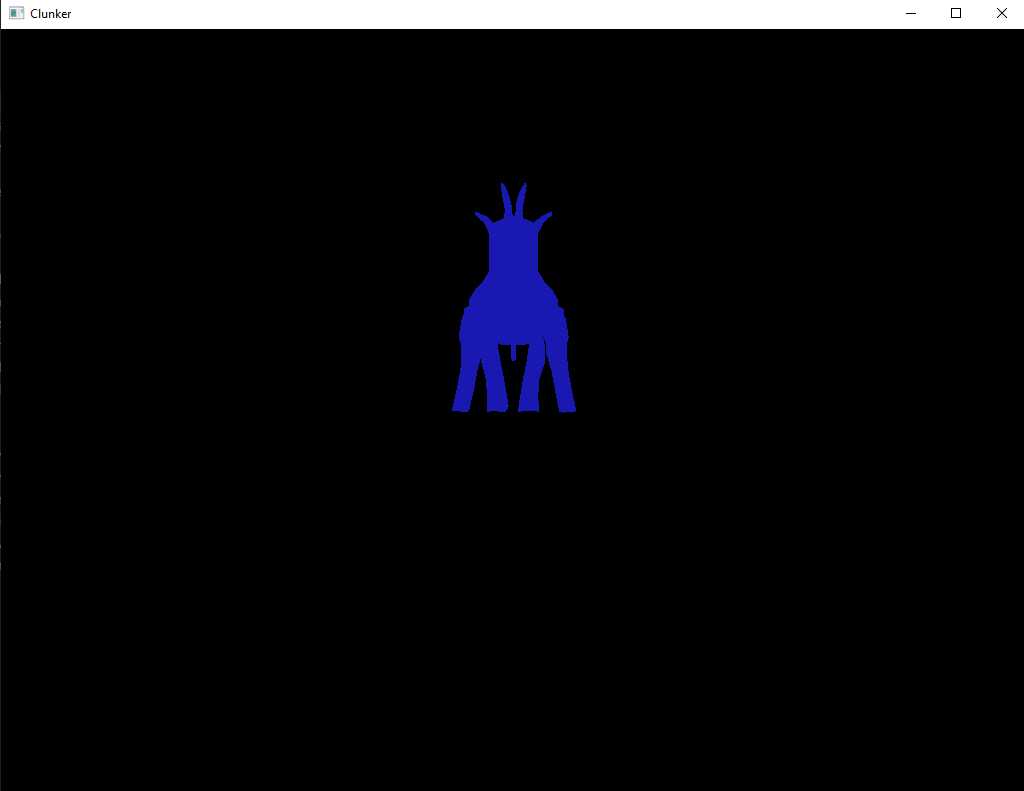
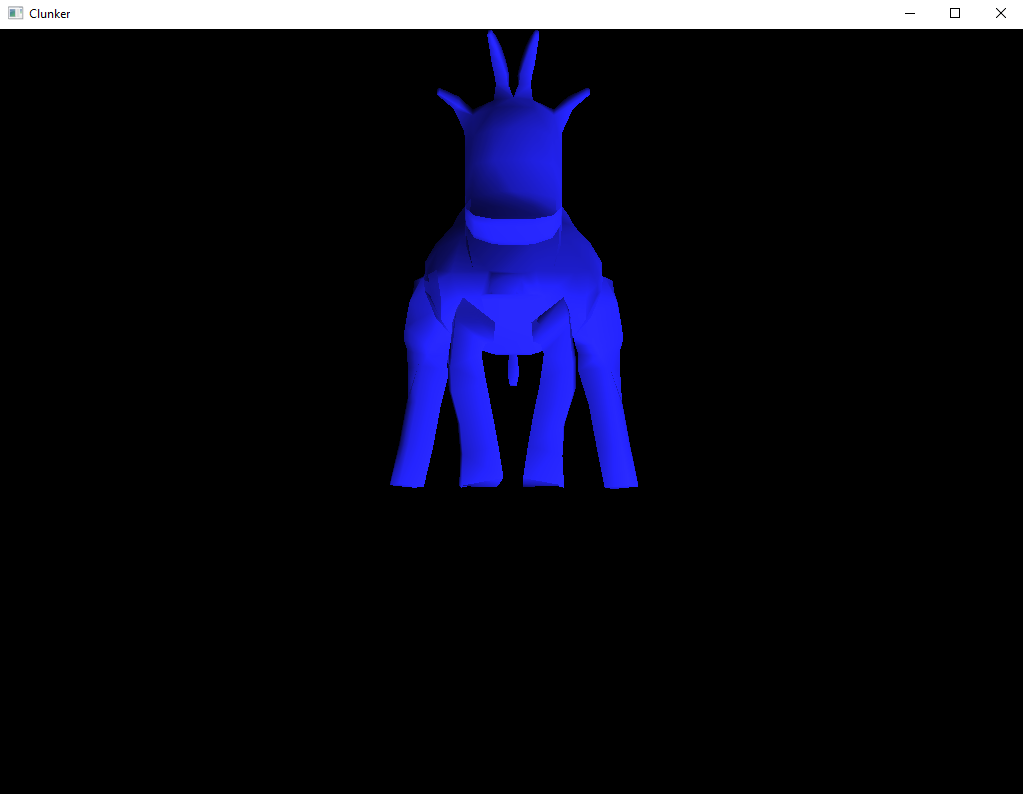
Adding descriptors.

Changed region(s): [[0.3636, 0.0303, 0.6364, 0.6372], [0.0, 0.0, 0.0606, 0.0303]]

diff --git a/src/renderer.rs b/src/renderer.rs
@@ -23,6 +23,8 @@ use std::ptr::addr_of;
 const NUM_FRAMES_IN_FLIGHT: usize = 3;
 const MAX_OBJECTS_PER_FRAME: usize = 10;
 
+static mut descriptor_set_layout: VkDescriptorSetLayout = std::ptr::null_mut();
+
 static binding_desc: [VkVertexInputBindingDescription; 2] = [
     VkVertexInputBindingDescription {
         binding: 0,
@@ -69,17 +71,20 @@ unsafe extern "C" fn set_pipeline_layout_callback(
     pipelineLayoutCreateInfo: *mut VkPipelineLayoutCreateInfo,
 ) -> i32 {
     println!("Pipeline layout callback called.");
-    (*pipelineLayoutCreateInfo).pSetLayouts = std::ptr::null_mut();
-    (*pipelineLayoutCreateInfo).setLayoutCount = 0;
+    (*pipelineLayoutCreateInfo).pSetLayouts = std::ptr::addr_of_mut!(descriptor_set_layout);
+    (*pipelineLayoutCreateInfo).setLayoutCount = 1;
     1
 }
 
+#[derive(Default)]
 /// Transformation for a model, passed to the vertex shader
 struct UboTransformation {
     transformation: [f32; 16],
     offset: [f32; 3],
     padding: [f32; 13],
 }
+
+const UBO_BINDING: u32 = 0;
 
 /// The renderer struct, used for rendering models
 pub struct Renderer {
@@ -92,9 +97,11 @@ pub struct Renderer {
 
     descriptor_pool: VkDescriptorPool,
 
-    descriptor_set_layout: VkDescriptorSetLayout,
-
     descriptor_set: [VkDescriptorSet; NUM_FRAMES_IN_FLIGHT],
+
+    ubo_buffer: [VkBuffer; NUM_FRAMES_IN_FLIGHT],
+    ubo_buffer_memory: [VkDeviceMemory; NUM_FRAMES_IN_FLIGHT],
+    ubo: UboTransformation,
 }
 
 impl Renderer {
@@ -164,12 +171,23 @@ impl Renderer {
             real_screen_height: 768,
 
             descriptor_pool: std::ptr::null_mut(),
-            descriptor_set_layout: std::ptr::null_mut(),
+
             descriptor_set: [
                 std::ptr::null_mut(),
                 std::ptr::null_mut(),
                 std::ptr::null_mut(),
             ],
+            ubo_buffer: [
+                std::ptr::null_mut(),
+                std::ptr::null_mut(),
+                std::ptr::null_mut(),
+            ],
+            ubo_buffer_memory: [
+                std::ptr::null_mut(),
+                std::ptr::null_mut(),
+                std::ptr::null_mut(),
+            ],
+            ubo: { Default::default() },
         };
 
         let work_dir = std::env::current_dir()
@@ -220,25 +238,43 @@ impl Renderer {
                 iscc,
                 pidx_ptr,
             );
+
+            for n in 0..NUM_FRAMES_IN_FLIGHT {
+                (myself.ubo_buffer[n], myself.ubo_buffer_memory[n]) =
+                    super::descriptor::create_ubo_buffer(&myself.ubo);
+            }
         }
         myself
     }
 
     /// Render a model
-    pub fn render(&mut self, m: &super::model::Model) {
+    pub fn render(&mut self, m: &super::model::Model, offset: [f32; 3]) {
         let mut current_frame_index = 0;
-        let cfi_ptr: *mut u32 = &mut current_frame_index;
 
-        let mut image_index = 0;
-        let img_ptr: *mut u32 = &mut image_index;
+        let mut image_index_not_needed = 0;
+
+        self.ubo.offset = offset;
 
         unsafe {
-            vh_acquire_next_image(self.pipeline_index, img_ptr, cfi_ptr);
+            vh_acquire_next_image(
+                self.pipeline_index,
+                &mut image_index_not_needed,
+                &mut current_frame_index,
+            );
             vh_wait_gpu_cpu_fence(current_frame_index);
+
+            super::descriptor::update_ubo_buffer(
+                &self.ubo,
+                self.ubo_buffer_memory[current_frame_index as usize],
+            );
 
             let cb_ptr: *mut VkCommandBuffer = &mut command_buffer[current_frame_index as usize];
 
             vh_destroy_draw_command_buffer(cb_ptr);
+
+            if vh_new_pipeline_state == 1 {
+                self.update_descriptor_sets();
+            }
 
             vh_begin_draw_command_buffer(cb_ptr);
             let cb_cptr: *const VkCommandBuffer = &command_buffer[current_frame_index as usize];
@@ -247,6 +283,16 @@ impl Renderer {
             let vb: [VkBuffer; 2] = [m.vertex_buffer, m.normals_buffer];
             vkCmdBindVertexBuffers(*cb_ptr, 0, 2, &vb[0], &binding[0]);
             vkCmdBindIndexBuffer(*cb_ptr, m.index_buffer, 0, VkIndexType_VK_INDEX_TYPE_UINT16);
+            vkCmdBindDescriptorSets(
+                *cb_ptr,
+                VkPipelineBindPoint_VK_PIPELINE_BIND_POINT_GRAPHICS,
+                *vh_pipeline_layout.wrapping_add(self.pipeline_index as usize),
+                0,
+                1,
+                &self.descriptor_set[current_frame_index as usize],
+                0,
+                std::ptr::null(),
+            );
 
             vkCmdDrawIndexed(*cb_ptr, m.index_data_size, 1, 0, 0, 0);
             vh_end_draw_command_buffer(cb_ptr);
@@ -266,7 +312,7 @@ impl Renderer {
     pub fn shutdown(&mut self) {
         unsafe {
             vkDeviceWaitIdle(vh_logical_device);
-            for idx in 0..NUM_FRAMES_IN_FLIGHT - 1 {
+            for idx in 0..NUM_FRAMES_IN_FLIGHT {
                 let cb_p: *mut VkCommandBuffer = &mut command_buffer[idx];
                 vh_destroy_draw_command_buffer(cb_p);
             }
@@ -274,6 +320,11 @@ impl Renderer {
             vh_destroy_pipeline(self.pipeline_index);
             self.destroy_descriptor_sets();
             vkDestroyDescriptorPool(vh_logical_device, self.descriptor_pool, std::ptr::null());
+
+            for n in 0..NUM_FRAMES_IN_FLIGHT {
+                vh_destroy_buffer(self.ubo_buffer[n], self.ubo_buffer_memory[n]);
+            }
+
             vh_destroy_swapchain();
             vh_destroy_sync_objects();
             vkDestroySurfaceKHR(vh_instance, vh_surface, std::ptr::null_mut());
@@ -302,15 +353,15 @@ impl Renderer {
     fn create_descriptor_pool(&mut self) {
         let descriptor_pool_sizes: [VkDescriptorPoolSize; NUM_FRAMES_IN_FLIGHT] = [
             VkDescriptorPoolSize {
-                type_: VkDescriptorType_VK_DESCRIPTOR_TYPE_UNIFORM_BUFFER_DYNAMIC,
+                type_: VkDescriptorType_VK_DESCRIPTOR_TYPE_UNIFORM_BUFFER,
                 descriptorCount: 1,
             },
             VkDescriptorPoolSize {
-                type_: VkDescriptorType_VK_DESCRIPTOR_TYPE_UNIFORM_BUFFER_DYNAMIC,
+                type_: VkDescriptorType_VK_DESCRIPTOR_TYPE_UNIFORM_BUFFER,
                 descriptorCount: 1,
             },
             VkDescriptorPoolSize {
-                type_: VkDescriptorType_VK_DESCRIPTOR_TYPE_UNIFORM_BUFFER_DYNAMIC,
+                type_: VkDescriptorType_VK_DESCRIPTOR_TYPE_UNIFORM_BUFFER,
                 descriptorCount: 1,
             },
         ];
@@ -341,7 +392,7 @@ impl Renderer {
 
     fn allocate_descriptor_sets(&mut self) {
         let dslb = VkDescriptorSetLayoutBinding {
-            binding: 0,
+            binding: UBO_BINDING,
             descriptorType: VkDescriptorType_VK_DESCRIPTOR_TYPE_UNIFORM_BUFFER,
             descriptorCount: 1,
             stageFlags: VkShaderStageFlagBits_VK_SHADER_STAGE_VERTEX_BIT as u32,
@@ -361,25 +412,25 @@ impl Renderer {
                 vh_logical_device,
                 &dslci,
                 std::ptr::null(),
-                &mut self.descriptor_set_layout,
+                std::ptr::addr_of_mut!(descriptor_set_layout),
             ) != VkResult_VK_SUCCESS
             {
                 panic!("Failed to create descriptor set layout");
             }
         }
 
-        let dsai = VkDescriptorSetAllocateInfo {
-            sType: VkStructureType_VK_STRUCTURE_TYPE_DESCRIPTOR_SET_ALLOCATE_INFO,
-            descriptorPool: self.descriptor_pool,
-            descriptorSetCount: 1,
-            pSetLayouts: &self.descriptor_set_layout,
-            pNext: std::ptr::null(),
-        };
+        unsafe {
+            let dsai = VkDescriptorSetAllocateInfo {
+                sType: VkStructureType_VK_STRUCTURE_TYPE_DESCRIPTOR_SET_ALLOCATE_INFO,
+                descriptorPool: self.descriptor_pool,
+                descriptorSetCount: 1,
+                pSetLayouts: std::ptr::addr_of_mut!(descriptor_set_layout),
+                pNext: std::ptr::null(),
+            };
 
-        for n in 1..NUM_FRAMES_IN_FLIGHT {
-            self.descriptor_set[n] = std::ptr::null_mut();
+            for n in 0..NUM_FRAMES_IN_FLIGHT {
+                self.descriptor_set[n] = std::ptr::null_mut();
 
-            unsafe {
                 if vkAllocateDescriptorSets(vh_logical_device, &dsai, &mut self.descriptor_set[n])
                     != VkResult_VK_SUCCESS
                 {
@@ -390,7 +441,7 @@ impl Renderer {
     }
 
     fn destroy_descriptor_sets(&mut self) {
-        for n in 1..NUM_FRAMES_IN_FLIGHT {
+        for n in 0..NUM_FRAMES_IN_FLIGHT {
             unsafe {
                 if vkFreeDescriptorSets(
                     vh_logical_device,
@@ -402,6 +453,33 @@ impl Renderer {
                     panic!("Failed to free descriptor set");
                 }
                 self.descriptor_set[n] = std::ptr::null_mut(); // cannot find VK_NULL_HANDLE in bindings...
+            }
+        }
+    }
+
+    fn update_descriptor_sets(&mut self) {
+        for n in 0..NUM_FRAMES_IN_FLIGHT {
+            let dbi = VkDescriptorBufferInfo {
+                buffer: self.ubo_buffer[n],
+                offset: 0,
+                range: std::mem::size_of::<UboTransformation>() as u64,
+            };
+
+            let wds = VkWriteDescriptorSet {
+                sType: VkStructureType_VK_STRUCTURE_TYPE_WRITE_DESCRIPTOR_SET,
+                pNext: std::ptr::null(),
+                dstSet: self.descriptor_set[n],
+                dstBinding: UBO_BINDING,
+                dstArrayElement: 0,
+                descriptorCount: 1,
+                descriptorType: VkDescriptorType_VK_DESCRIPTOR_TYPE_UNIFORM_BUFFER,
+                pImageInfo: std::ptr::null(),
+                pBufferInfo: &dbi,
+                pTexelBufferView: std::ptr::null(),
+            };
+
+            unsafe {
+                vkUpdateDescriptorSets(vh_logical_device, 1, &wds, 0, std::ptr::null());
             }
         }
     }

diff --git a/src/descriptor.rs b/src/descriptor.rs
@@ -1,0 +1,59 @@
+// Don't go crazy with warnings about all the stuff imported from C
+#![allow(non_upper_case_globals)]
+#![allow(non_camel_case_types)]
+#![allow(non_snake_case)]
+#![allow(unused_assignments)]
+#![allow(dead_code)]
+#![allow(unused_imports)]
+
+use super::renderer::*;
+
+pub fn create_ubo_buffer<T>(ubo: &T) -> (VkBuffer, VkDeviceMemory) {
+    let mut buffer: VkBuffer = std::ptr::null_mut();
+    let mut memory: VkDeviceMemory = std::ptr::null_mut();
+
+    unsafe {
+        vh_create_buffer(
+            &mut buffer,
+            VkBufferUsageFlagBits_VK_BUFFER_USAGE_UNIFORM_BUFFER_BIT as u32,
+            std::mem::size_of::<T>() as u32,
+            &mut memory,
+            VkMemoryPropertyFlagBits_VK_MEMORY_PROPERTY_HOST_VISIBLE_BIT as u32
+                | VkMemoryPropertyFlagBits_VK_MEMORY_PROPERTY_HOST_COHERENT_BIT as u32,
+        );
+    }
+    
+    update_ubo_buffer(ubo, memory); 
+
+    (buffer, memory)
+}
+
+pub fn update_ubo_buffer<T>(ubo: &T, memory: VkDeviceMemory) {
+
+    let mut mapped_data: *mut ::std::os::raw::c_void = std::ptr::null_mut();
+    unsafe {
+        let r = vkMapMemory(
+            vh_logical_device,
+            memory,
+            0,
+            std::mem::size_of::<T>() as u64,
+            0,
+            &mut mapped_data,
+        );
+
+        assert!(r == 0);
+    }
+
+    let ubo_as_ptr = ubo as *const T;
+
+    unsafe {
+        std::ptr::copy_nonoverlapping(
+            ubo_as_ptr as *const u8,
+            mapped_data as *mut u8,
+            std::mem::size_of::<T>(),
+        );
+
+        vkUnmapMemory(vh_logical_device, memory);
+    }
+
+}

diff --git a/src/main.rs b/src/main.rs
@@ -1,5 +1,6 @@
 mod model;
 mod renderer;
+mod descriptor;
 
 use std::io::BufReader;
 use std::fs::File;
@@ -47,11 +48,13 @@ fn main() {
 
     let mut destroying = false;
 
+    let position = [0.0f32, -0.2f32, 0.0f32];
+
     event_loop.run(move |event, _, control_flow| {
         control_flow.set_poll(); // vs .set_wait
 
         match event {
-            Event::MainEventsCleared if !destroying => app.renderer.render(&m),
+            Event::MainEventsCleared if !destroying => app.renderer.render(&m, position),
 
             Event::WindowEvent {
                 event: WindowEvent::CloseRequested,

diff --git a/src/model.rs b/src/model.rs
@@ -192,7 +192,6 @@ impl Model {
             }
         }
         let mut staging_data: *mut ::std::os::raw::c_void = std::ptr::null_mut();
-        let staging_data_ptr: *mut *mut ::std::os::raw::c_void = &mut staging_data;
 
         unsafe {
             vkMapMemory(
@@ -201,7 +200,7 @@ impl Model {
                 0,
                 VK_WHOLE_SIZE as u64,
                 0,
-                staging_data_ptr,
+                &mut staging_data,
             );
         }
 
